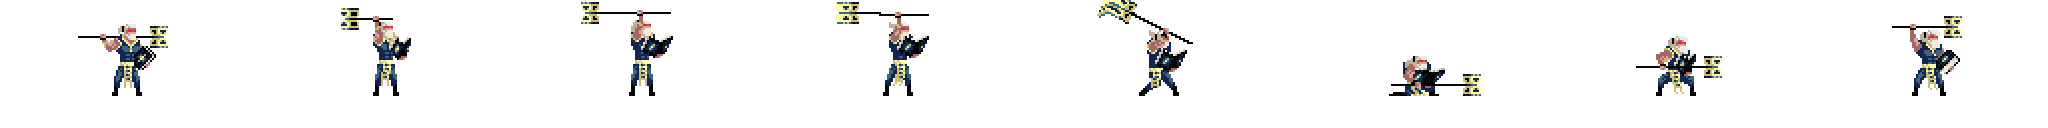
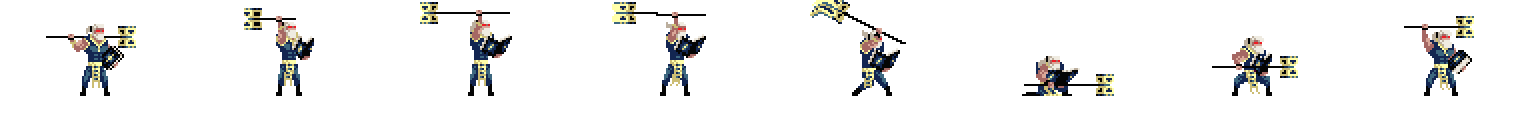
Bug del paladin arreglado

diff --git a/medieval_melee/js/game.js b/medieval_melee/js/game.js
@@ -46,9 +46,9 @@ class GameScene extends Phaser.Scene {
         this.load.spritesheet('arquero1_run', 'assets/p1_arquero/run.png', { frameWidth: 192, frameHeight: 128 });
         this.load.spritesheet('arquero1_idle', 'assets/p1_arquero/idle.png', { frameWidth: 192, frameHeight: 128 });
         this.load.spritesheet('arquero1_attack', 'assets/p1_arquero/attack.png', { frameWidth: 192, frameHeight: 128 });
-        this.load.spritesheet('paladin1_run', 'assets/p1_paladin/run.png', { frameWidth: 256, frameHeight: 128 });
-        this.load.spritesheet('paladin1_idle', 'assets/p1_paladin/idle.png', { frameWidth: 256, frameHeight: 128 });
-        this.load.spritesheet('paladin1_attack', 'assets/p1_paladin/attack.png', { frameWidth: 256, frameHeight: 128 });
+        this.load.spritesheet('paladin1_run', 'assets/p1_paladin/run.png', { frameWidth: 192, frameHeight: 128 });
+        this.load.spritesheet('paladin1_idle', 'assets/p1_paladin/idle.png', { frameWidth: 192, frameHeight: 128 });
+        this.load.spritesheet('paladin1_attack', 'assets/p1_paladin/attack.png', { frameWidth: 192, frameHeight: 128 });
 
         // Animaciones para el jugador 2
         this.load.spritesheet('caballero2_run', 'assets/p2_caballero/run.png', { frameWidth: 192, frameHeight: 128 });
@@ -57,9 +57,9 @@ class GameScene extends Phaser.Scene {
         this.load.spritesheet('arquero2_run', 'assets/p2_arquero/run.png', { frameWidth: 192, frameHeight: 128 });
         this.load.spritesheet('arquero2_idle', 'assets/p2_arquero/idle.png', { frameWidth: 192, frameHeight: 128 });
         this.load.spritesheet('arquero2_attack', 'assets/p2_arquero/attack.png', { frameWidth: 192, frameHeight: 128 });
-        this.load.spritesheet('paladin2_run', 'assets/p2_paladin/run.png', { frameWidth: 256, frameHeight: 128 });
-        this.load.spritesheet('paladin2_idle', 'assets/p2_paladin/idle.png', { frameWidth: 256, frameHeight: 128 });
-        this.load.spritesheet('paladin2_attack', 'assets/p2_paladin/attack.png', { frameWidth: 256, frameHeight: 128 });
+        this.load.spritesheet('paladin2_run', 'assets/p2_paladin/run.png', { frameWidth: 192, frameHeight: 128 });
+        this.load.spritesheet('paladin2_idle', 'assets/p2_paladin/idle.png', { frameWidth: 192, frameHeight: 128 });
+        this.load.spritesheet('paladin2_attack', 'assets/p2_paladin/attack.png', { frameWidth: 192, frameHeight: 128 });
 
     }
 
@@ -145,7 +145,10 @@ class GameScene extends Phaser.Scene {
             if (animation.key === 'caballero1_attack' && frame.index === 4) {
                 this.attack(1); // Ejecuta ataque del jugador 1
             }
-            else if (animation.key === 'paladin1_attack' && frame.index === 4) {
+        });
+
+        player1.on('animationupdate', (animation, frame) => {
+            if (animation.key === 'paladin1_attack' && frame.index === 5) {
                 this.attack(1); // Ejecuta ataque del jugador 1
             }
         });
@@ -154,7 +157,10 @@ class GameScene extends Phaser.Scene {
             if (animation.key === 'caballero2_attack' && frame.index === 4) {
                 this.attack(2); // Ejecuta ataque del jugador 2
             }
-            else if (animation.key === 'paladin2_attack' && frame.index === 4) {
+        });
+
+        player2.on('animationupdate', (animation, frame) => {
+            if (animation.key === 'paladin2_attack' && frame.index === 5) {
                 this.attack(2); // Ejecuta ataque del jugador 1
             }
         });
@@ -668,10 +674,10 @@ class GameScene extends Phaser.Scene {
             isKnockedBack1 = true;                          // Marca al jugador 2 como en retroceso
 
             if(formCheck2==2){
-                dmgMult2=2
+                dmgMult2=1.5;
             }
             else{
-                dmgMult2=1
+                dmgMult2=1;
             }
             percent1 += (Math.random() * (0.2 - 0.1) + 0.1)*dmgMult2; // Incrementa el daño del jugador 2
             console.log(dmgMult2);
@@ -686,10 +692,10 @@ class GameScene extends Phaser.Scene {
             player2.setVelocityY(-verticalKnockback);        // Aplica fuerza hacia arriba
             isKnockedBack2 = true;      
             if(formCheck1==2){
-                dmgMult1=2
+                dmgMult1=1.5;
             }
             else{
-                dmgMult1=1
+                dmgMult1=1;
             }                    // Marca al jugador 2 como en retroceso
             percent2 += (Math.random() * (0.2 - 0.1) + 0.1)*dmgMult1; // Incrementa el daño del jugador 2
             console.log(dmgMult1);

diff --git a/medieval_melee/js/end.js b/medieval_melee/js/end.js
@@ -7,7 +7,7 @@ class EndScene extends Phaser.Scene {
 
     // Método preload: carga los recursos necesarios para esta escena
     preload() {
-        this.load.image('end', 'assets/menu.png');               // Fondo del menú
+        this.load.image('end', 'assets/castillo.png');               // Fondo del menú
         this.load.image('player1wins', 'assets/player1screen.png');           // Imagen del título
         this.load.image('player2wins', 'assets/player2screen.png');           // Imagen del título
         this.load.image('play2', 'assets/play2.png');               // Botón de "Jugar"
@@ -27,14 +27,14 @@ class EndScene extends Phaser.Scene {
         var player = this.registry.get('winner');
 
         if (player == 1) {
-            this.add.image(640, 200, 'player1wins');
+            this.add.image(640, 250, 'player1wins');
         }
         else {
-            this.add.image(640, 200, 'player2wins');
+            this.add.image(640, 250, 'player2wins');
         }
 
         // Botón de "Jugar"
-        var start_button = this.add.image(640, 350, 'play2')
+        var start_button = this.add.image(640, 400, 'play2')
             .setInteractive() // Hace el botón interactivo
             .on('pointerover', () => {
                 // Cambia a la textura de hover cuando el mouse pasa sobre el botón
@@ -55,7 +55,7 @@ class EndScene extends Phaser.Scene {
             });
 
         // Botón de "Salir"
-        var exit_button = this.add.image(640, 425, 'exit')
+        var exit_button = this.add.image(640, 475, 'exit')
             .setInteractive() // Hace el botón interactivo
             .on('pointerover', () => {
                 // Cambia a la textura de hover cuando el mouse pasa sobre el botón

diff --git a/medieval_melee/js/main_menu.js b/medieval_melee/js/main_menu.js
@@ -7,7 +7,7 @@ class MainMenuScene extends Phaser.Scene {
 
     // Método preload: carga los recursos necesarios para esta escena
     preload() {
-        this.load.image('menu', 'assets/menu.png');               // Fondo del menú
+        this.load.image('menu', 'assets/castillo.png');               // Fondo del menú
         this.load.image('titulo', 'assets/titulo.png');           // Imagen del título
         this.load.image('play', 'assets/play.png');               // Botón de "Jugar"
         this.load.image('play_hover', 'assets/play_hover.png');   // Botón de "Jugar" en hover
@@ -22,10 +22,10 @@ class MainMenuScene extends Phaser.Scene {
 
         // Agrega la imagen de fondo y el título en posiciones específicas
         this.add.image(640, 360, 'menu');  // Imagen del fondo
-        this.add.image(640, 200, 'titulo'); // Imagen del título
+        this.add.image(640, 250, 'titulo'); // Imagen del título
 
         // Botón de "Jugar"
-        var start_button = this.add.image(640, 350, 'play')
+        var start_button = this.add.image(640, 400, 'play')
             .setInteractive() // Hace el botón interactivo
             .on('pointerover', () => {
                 // Cambia a la textura de hover cuando el mouse pasa sobre el botón
@@ -46,7 +46,7 @@ class MainMenuScene extends Phaser.Scene {
             });
 
         // Botón de "Créditos"
-        var credits_button = this.add.image(640, 425, 'credits')
+        var credits_button = this.add.image(640, 475, 'credits')
             .setInteractive() // Hace el botón interactivo
             .on('pointerover', () => {
                 // Cambia a la textura de hover cuando el mouse pasa sobre el botón
